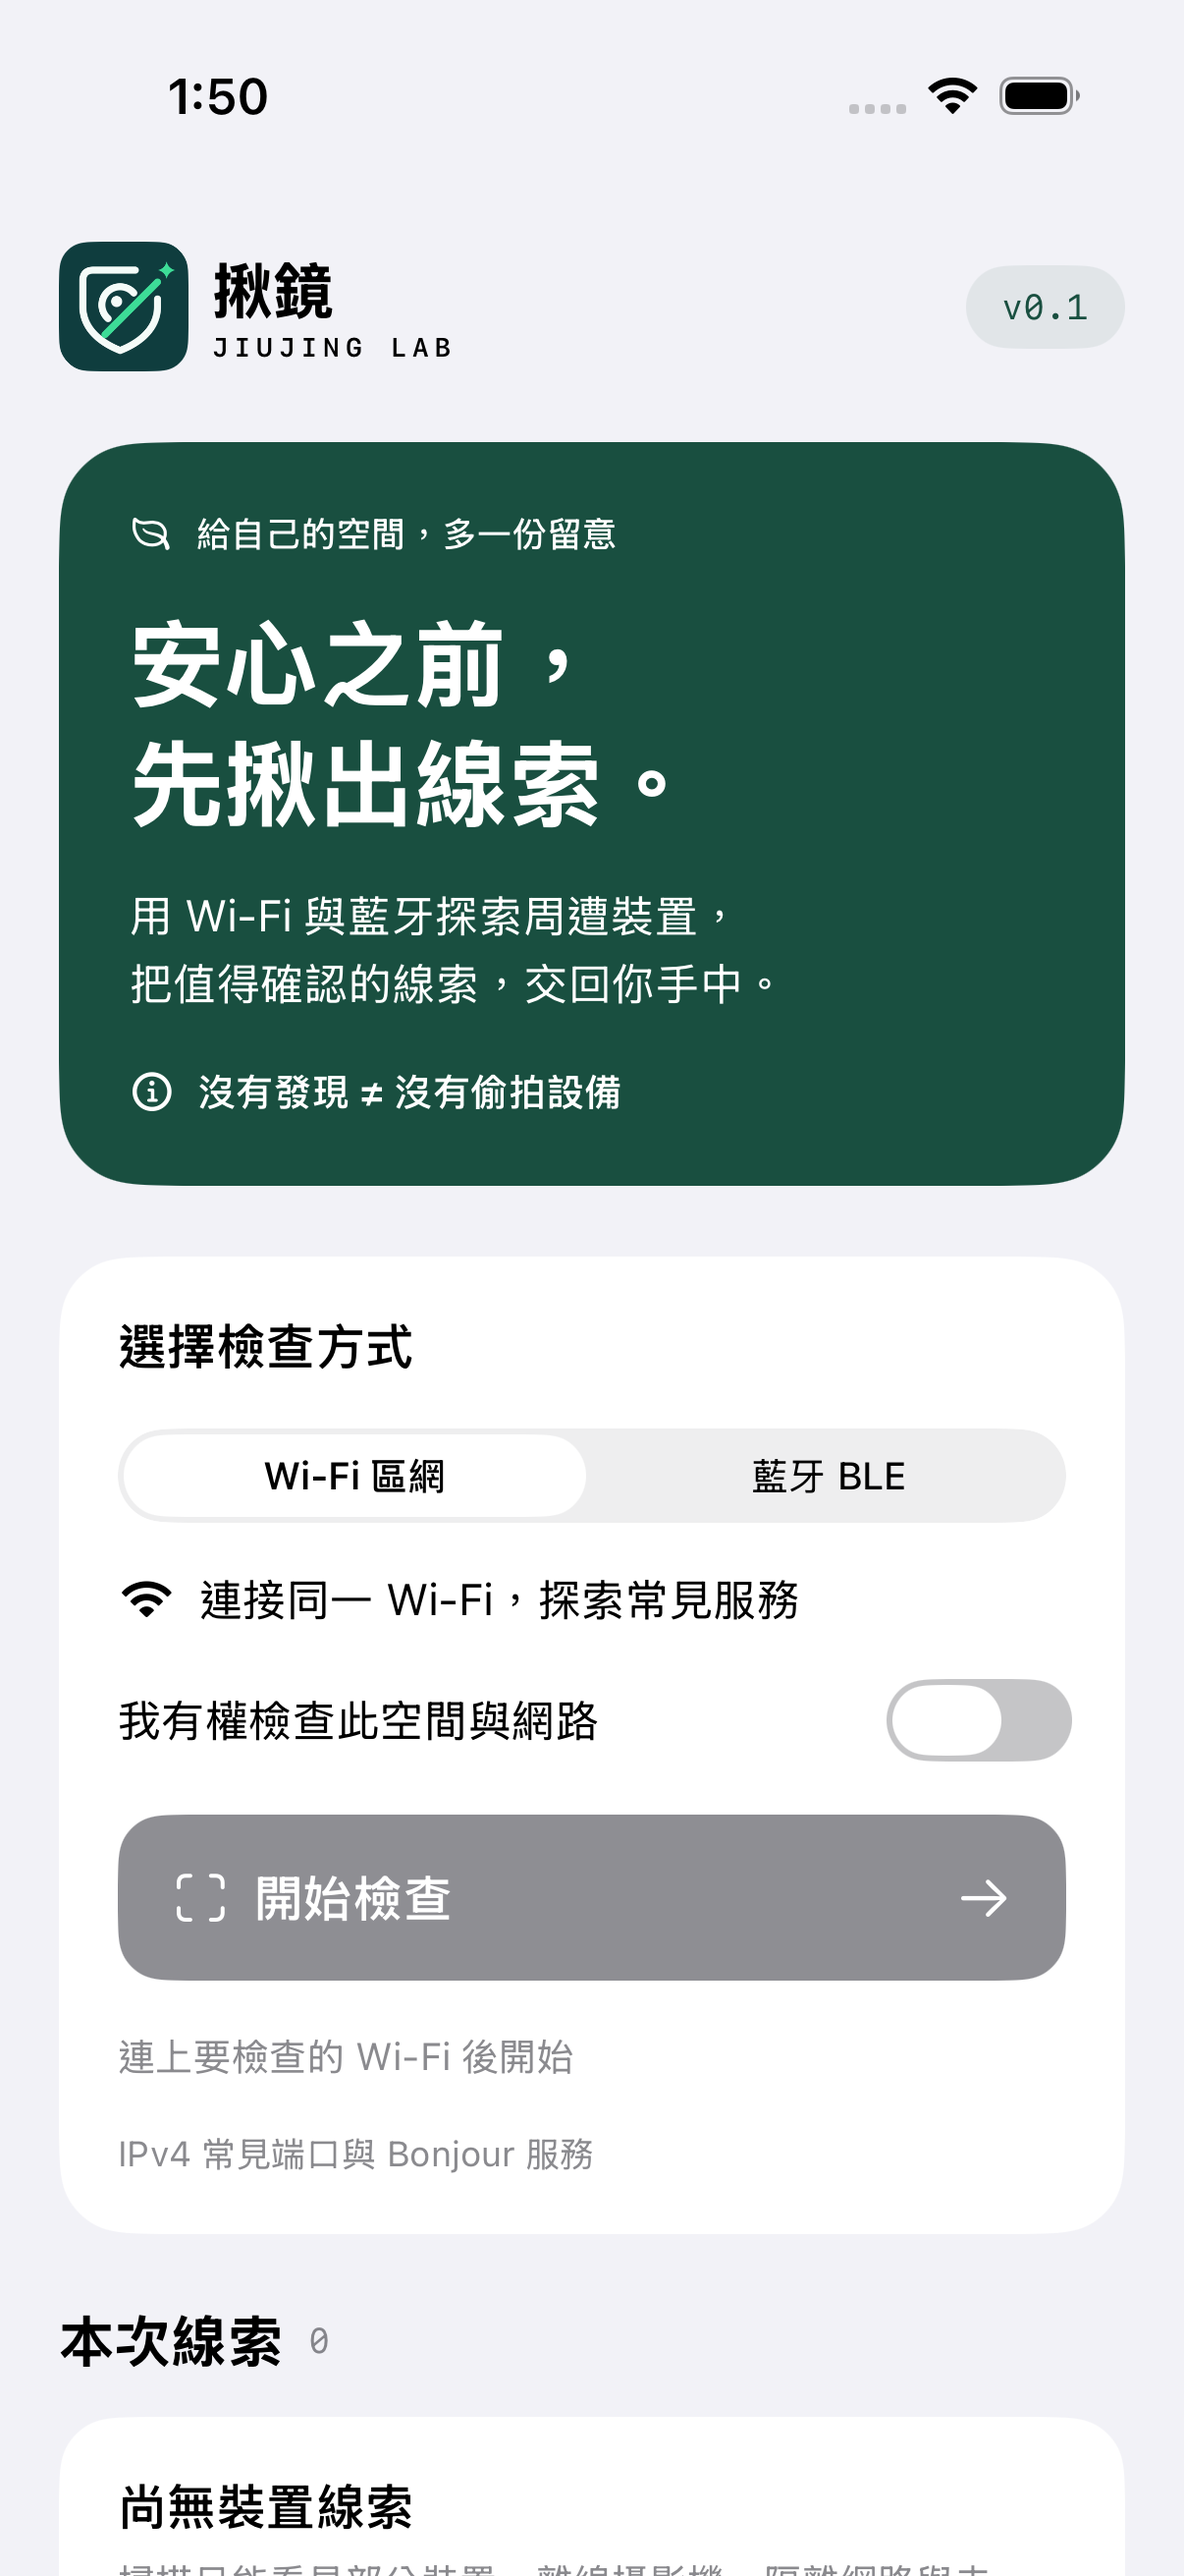
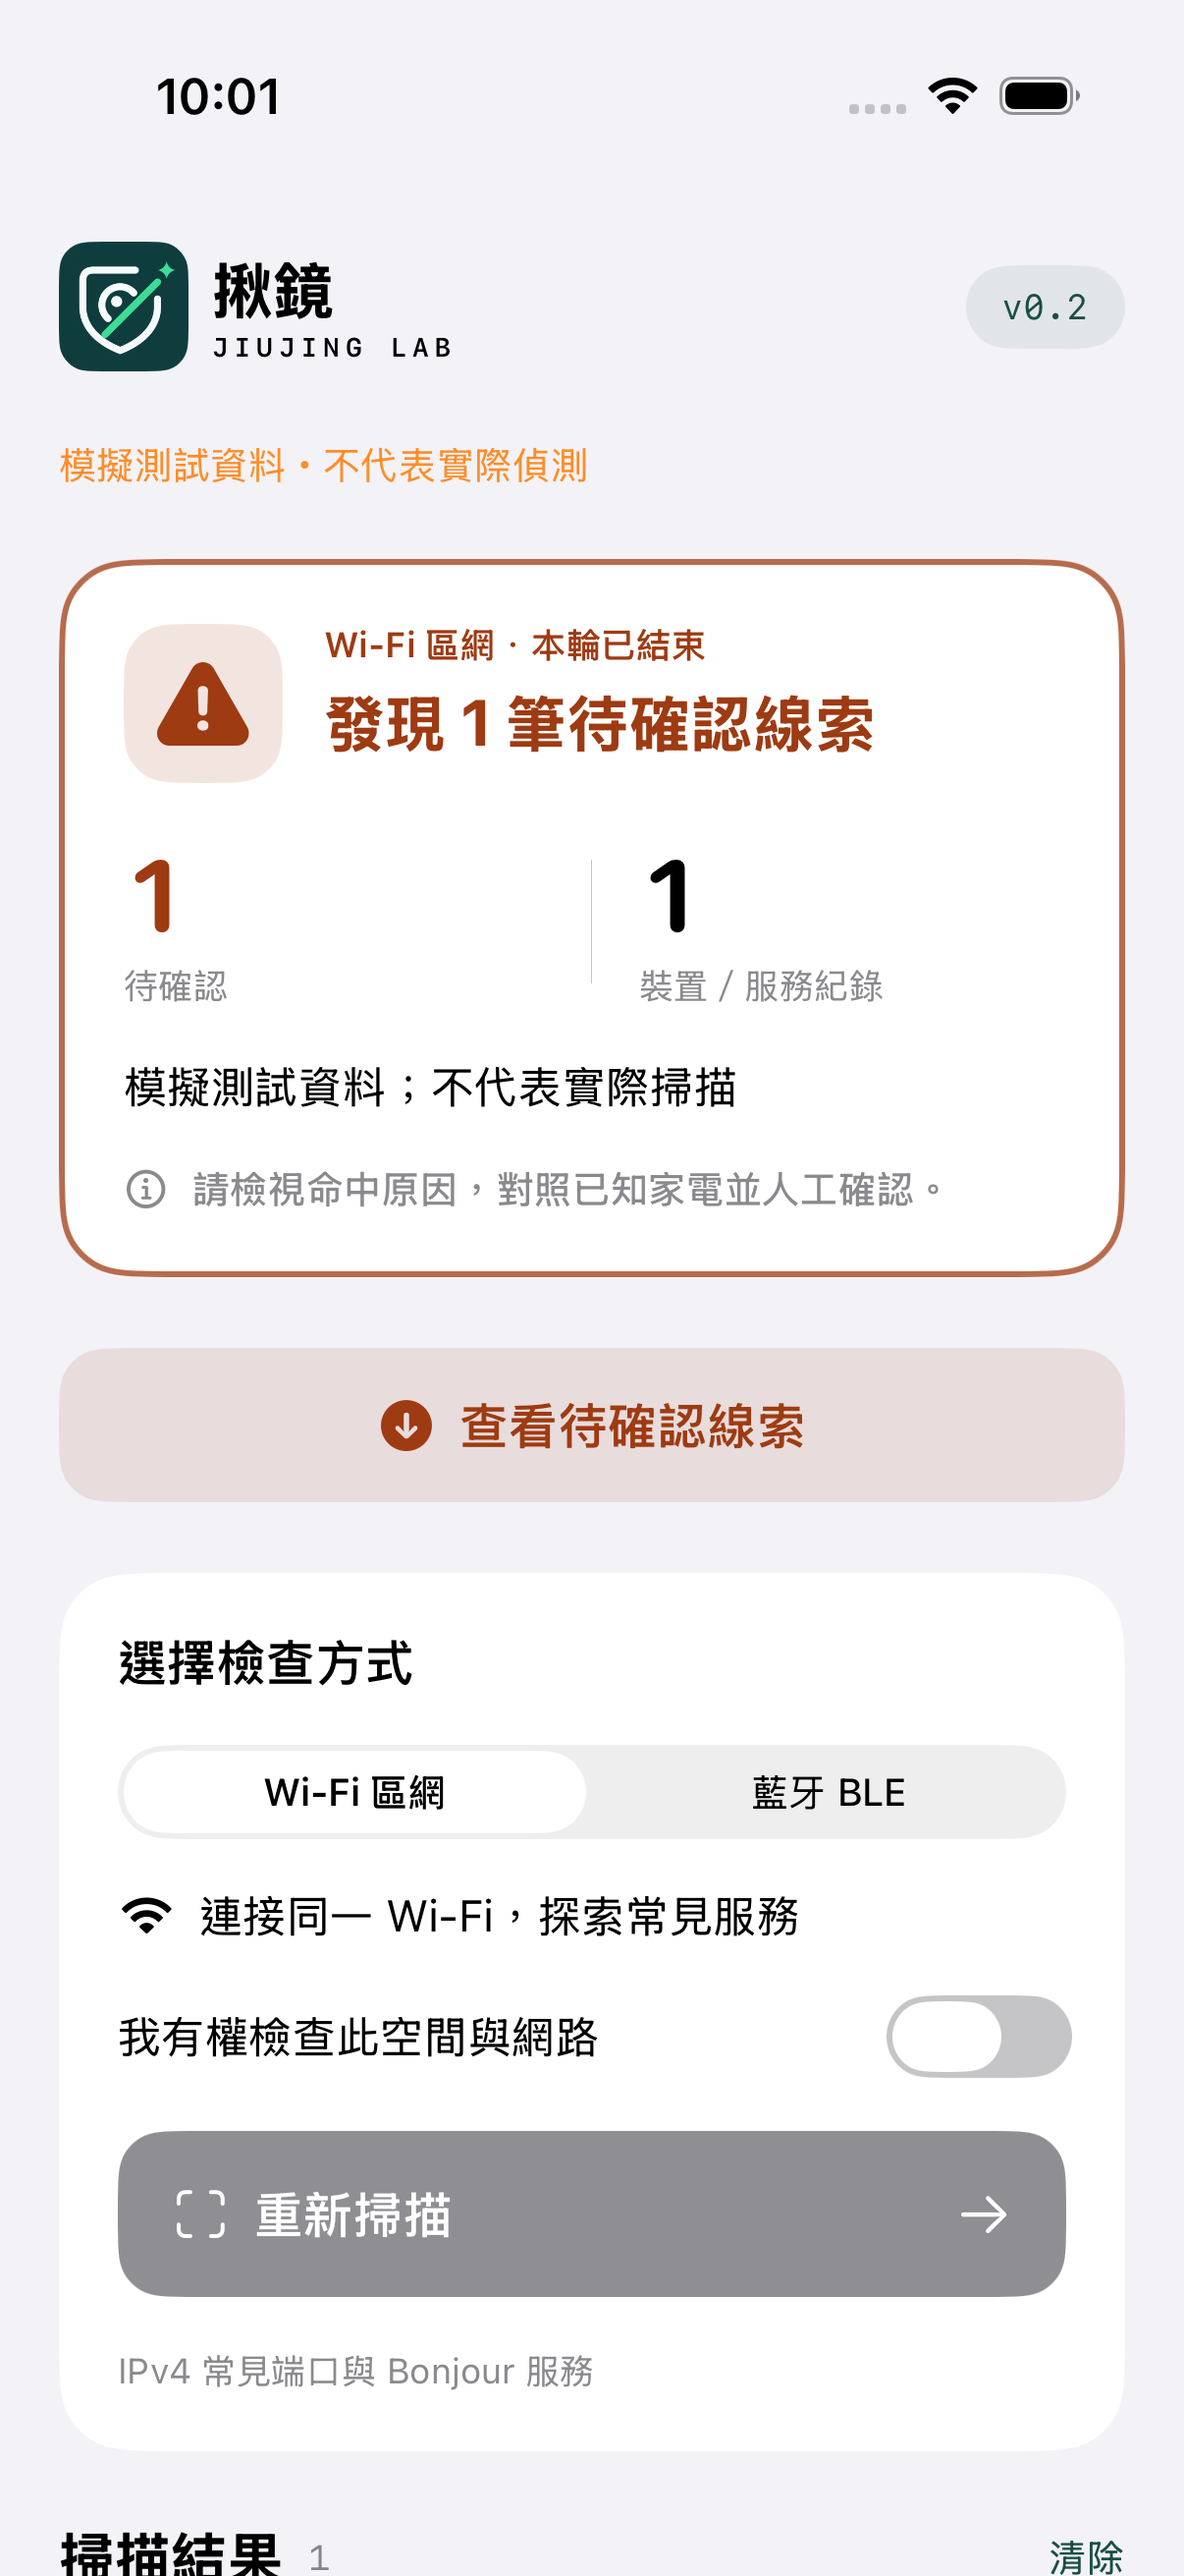
docs(release): document v0.2 camera assistance and scan results

diff --git a/index.html b/index.html
@@ -17,14 +17,14 @@
 </header>
 <main id="main">
 <section class="hero wrap" aria-labelledby="hero-title">
-<div class="hero-copy"><p class="eyebrow"><span class="status-dot" aria-hidden="true"></span>免費・開源・iOS 16+</p><h1 id="hero-title">安心之前，<br>先揪出<span class="marked">線索<svg viewBox="0 0 260 18" aria-hidden="true"><path d="M4 12Q125 0 254 10"/></svg></span>。</h1><p class="hero-lead">陌生的房間，熟悉的不安。<br>用 Wi-Fi 與藍牙探索周遭裝置，<br>把值得確認的線索，交回你手中。</p><div class="actions"><a class="button primary" href="#try">了解 v0.1 測試 <span aria-hidden="true">↗</span></a><a class="text-link" href="https://github.com/JiuJingLab/ios">查看原始碼 <span aria-hidden="true">→</span></a></div><p class="hero-note">沒有發現，不代表沒有偷拍設備。</p></div>
-<div class="hero-visual"><div class="orbit orbit-one" aria-hidden="true"></div><div class="orbit orbit-two" aria-hidden="true"></div><span class="cross cross-one" aria-hidden="true">+</span><span class="cross cross-two" aria-hidden="true">+</span><figure class="phone"><img src="assets/app-home.png" width="1206" height="2622" alt="揪鏡 v0.1 首頁，包含 Wi-Fi 區網與藍牙 BLE 模式、授權確認及開始檢查按鈕"><figcaption>v0.1 實際介面 · 模擬器截圖</figcaption></figure><div class="local-note"><span aria-hidden="true">↳</span> 掃描資料<br><strong>留在你的手機。</strong></div></div>
+<div class="hero-copy"><p class="eyebrow"><span class="status-dot" aria-hidden="true"></span>免費・開源・iOS 16+</p><h1 id="hero-title">安心之前，<br>先揪出<span class="marked">線索<svg viewBox="0 0 260 18" aria-hidden="true"><path d="M4 12Q125 0 254 10"/></svg></span>。</h1><p class="hero-lead">陌生的房間，熟悉的不安。<br>用 Wi-Fi 與藍牙探索周遭裝置，<br>把值得確認的線索，交回你手中。</p><div class="actions"><a class="button primary" href="#try">了解 v0.2 測試 <span aria-hidden="true">↗</span></a><a class="text-link" href="https://github.com/JiuJingLab/ios">查看原始碼 <span aria-hidden="true">→</span></a></div><p class="hero-note">沒有發現，不代表沒有偷拍設備。</p></div>
+<div class="hero-visual"><div class="orbit orbit-one" aria-hidden="true"></div><div class="orbit orbit-two" aria-hidden="true"></div><span class="cross cross-one" aria-hidden="true">+</span><span class="cross cross-two" aria-hidden="true">+</span><figure class="phone"><img src="assets/app-home.png" width="1206" height="2622" alt="揪鏡 v0.2 掃描結果狀態卡，顯示一筆待確認線索；此畫面為明確標示的模擬測試資料"><figcaption>v0.2 介面 · 模擬測試資料</figcaption></figure><div class="local-note"><span aria-hidden="true">↳</span> 掃描資料<br><strong>留在你的手機。</strong></div></div>
 </section>
 <div class="principles"><div class="wrap"><span>無帳號，直接開始</span><span>無廣告與分析 SDK</span><span>掃描結果不上傳</span><span>MIT 開源授權</span></div></div>
 <section class="section wrap intro" id="how" aria-labelledby="how-title"><div><p class="eyebrow">01 / 把檢查變得簡單</p><h2 id="how-title">多一個工具，<br>多一份留意。</h2></div><div><p class="large-copy">保護隱私，不該以付費或交出更多資料為代價。揪鏡讓你從周遭的數位線索開始，搭配實體檢查，逐步了解自己的空間。</p><ol class="steps"><li><span>01</span><div><h3>確認你有權檢查</h3><p>只在自己有權使用的空間與網路操作，選擇 Wi-Fi 或 BLE 模式。</p></div></li><li><span>02</span><div><h3>讓線索浮現</h3><p>查看裝置提供的服務或藍牙廣播。需要留意的紀錄會顯示具體原因。</p></div></li><li><span>03</span><div><h3>人工確認，再做判斷</h3><p>對照已知家電與設備用途，有疑慮時向管理者確認，先保護自己的安全。</p></div></li></ol></div></section>
-<section class="section wrap methods" aria-labelledby="methods-title"><div class="section-heading"><p class="eyebrow">02 / 兩種方式，觀察線索</p><h2 id="methods-title">把原因攤開，<br>讓你自己確認。</h2></div><div class="method"><span class="method-icon" aria-hidden="true">⌁</span><div><p class="eyebrow">WI-FI</p><h3>同一個網路，看見哪些服務？</h3><p>探索同 Wi-Fi 的常見端口與 Bonjour 服務，查看可能與影像串流有關的線索。一般網頁服務也會出現，並不等於攝影機。</p></div><span class="method-tag">不讀取影像</span></div><div class="method"><span class="method-icon ble" aria-hidden="true">ᛒ</span><div><p class="eyebrow">BLUETOOTH LE</p><h3>附近的廣播，有什麼值得留意？</h3><p>掃描 20 秒 BLE 廣播，以名稱規則提示待確認的裝置。名稱可以更改；訊號強弱也不代表裝置與你的距離。</p></div><span class="method-tag">不配對、不連線</span></div></section>
-<section class="privacy-band" aria-labelledby="privacy-title"><div class="wrap privacy-grid"><div><p class="eyebrow">03 / 隱私，從設計開始</p><h2 id="privacy-title">保護你的資料，<br>不必先收集它。</h2></div><div><p>v0.1 的掃描在手機端完成。結果只暫存在 App 記憶體，你可以隨時清除；我們不建立掃描紀錄，也不把資料送到雲端。</p><p>不要求相機、麥克風或位置權限。進入背景就停止掃描。</p><a href="https://jiujinglab.github.io/docs/privacy/">閱讀完整隱私政策 <span aria-hidden="true">↗</span></a></div></div></section>
-<section class="section wrap limits" id="limits" aria-labelledby="limits-title"><p class="eyebrow">04 / 把限制，也說清楚</p><h2 id="limits-title">沒有發現，<br><span>不代表沒有。</span></h2><p class="large-copy">揪鏡提供待確認的線索，不能證明有偷拍，也不能證明空間安全。</p><div class="limit-grid"><div><h3>離線設備可能看不見</h3><p>只錄到記憶卡、未連網或未廣播的攝影機，可能完全不會出現。</p></div><div><h3>網路並不是全貌</h3><p>隔離網路、防火牆與逾時會造成遺漏。v0.1 區網掃描限 IPv4，大型網段只檢查部分範圍。</p></div><div><h3>線索需要人工確認</h3><p>合法家電也可能命中規則。不要自行拆卸設備；感到不安全時先離開並尋求協助。</p></div></div><div class="faq"><details><summary>揪鏡能判斷裝置廠牌或精確距離嗎？</summary><p>不能。v0.1 不取得周邊裝置 MAC 位址，也不猜測廠商；BLE 訊號會受牆面、遮蔽物與硬體影響，不代表距離。</p></details><details><summary>目前有相機、紅外線或 AI 辨識嗎？</summary><p>沒有。v0.1 僅提供 Wi-Fi 區網與 BLE 廣播探索。其他偵測方式仍是研究方向，尚未提供。</p></details><details><summary>偵測到陌生裝置後，應該怎麼做？</summary><p>先對照場地內已知家電，向管理者確認用途。若仍有疑慮，先離開風險區域，避免拆卸或破壞設備，必要時在台灣撥打 110 求助。</p></details></div></section>
-<section class="try-section" id="try" aria-labelledby="try-title"><div class="wrap try-grid"><div><p class="eyebrow">JIUJING v0.1</p><h2 id="try-title">從透明的起點，<br>一起往前。</h2><p id="release-status">v0.1 已開放 TestFlight 內部測試，公開測試連結尚未開放。</p><p class="small">目前可查看原始碼與使用說明。實機 BLE／區網偵測仍需持續驗證；模擬器測試不代表硬體偵測效果。</p></div><div class="try-actions"><a class="button primary" href="https://github.com/JiuJingLab/ios">前往開源專案 <span aria-hidden="true">↗</span></a><a class="button secondary" href="https://jiujinglab.github.io/docs/support/">查看使用說明 <span aria-hidden="true">→</span></a><p>不把未知說成安全。<br>不把規劃說成已完成。</p></div></div></section>
+<section class="section wrap methods" aria-labelledby="methods-title"><div class="section-heading"><p class="eyebrow">02 / 數位線索，搭配人工觀察</p><h2 id="methods-title">把原因攤開，<br>讓你自己確認。</h2></div><div class="method"><span class="method-icon" aria-hidden="true">⌁</span><div><p class="eyebrow">WI-FI</p><h3>同一個網路，看見哪些服務？</h3><p>探索同 Wi-Fi 的常見端口與 Bonjour 服務，查看可能與影像串流有關的線索。一般網頁服務也會出現，並不等於攝影機。</p></div><span class="method-tag">不讀取影像</span></div><div class="method"><span class="method-icon ble" aria-hidden="true">ᛒ</span><div><p class="eyebrow">BLUETOOTH LE</p><h3>附近的廣播，有什麼值得留意？</h3><p>掃描 20 秒 BLE 廣播，以名稱規則提示待確認的裝置。名稱可以更改；訊號強弱也不代表裝置與你的距離。</p></div><span class="method-tag">不配對、不連線</span></div><div class="method"><span class="method-icon" aria-hidden="true">◎</span><div><p class="eyebrow">CAMERA ASSIST</p><h3>再靠近一點，自己看清楚。</h3><p>本機即時預覽、放大、補光與前後鏡頭切換，搭配紅外線檢查指引。反光不是偷拍證據；沒有自動 AI 判定。</p></div><span class="method-tag">不儲存、不上傳</span></div></section>
+<section class="privacy-band" aria-labelledby="privacy-title"><div class="wrap privacy-grid"><div><p class="eyebrow">03 / 隱私，從設計開始</p><h2 id="privacy-title">保護你的資料，<br>不必先收集它。</h2></div><div><p>v0.2 的掃描在手機端完成。結果只暫存在 App 記憶體，你可以隨時清除；我們不建立掃描紀錄，也不把資料送到雲端。</p><p>相機只在你手動啟動輔助檢查後開啟，畫面不儲存、不上傳。不要求麥克風或位置權限。進入背景就停止掃描與相機。</p><a href="https://jiujinglab.github.io/docs/privacy/">閱讀完整隱私政策 <span aria-hidden="true">↗</span></a></div></div></section>
+<section class="section wrap limits" id="limits" aria-labelledby="limits-title"><p class="eyebrow">04 / 把限制，也說清楚</p><h2 id="limits-title">沒有發現，<br><span>不代表沒有。</span></h2><p class="large-copy">揪鏡提供待確認的線索，不能證明有偷拍，也不能證明空間安全。</p><div class="limit-grid"><div><h3>離線設備可能看不見</h3><p>只錄到記憶卡、未連網或未廣播的攝影機，可能完全不會出現。</p></div><div><h3>網路並不是全貌</h3><p>隔離網路、防火牆與逾時會造成遺漏。v0.2 區網掃描限 IPv4，大型網段只檢查部分範圍。</p></div><div><h3>線索需要人工確認</h3><p>合法家電也可能命中規則。不要自行拆卸設備；感到不安全時先離開並尋求協助。</p></div></div><div class="faq"><details><summary>揪鏡能判斷裝置廠牌或精確距離嗎？</summary><p>不能。v0.2 不取得周邊裝置 MAC 位址，也不猜測廠商；BLE 訊號會受牆面、遮蔽物與硬體影響，不代表距離。</p></details><details><summary>目前有相機、紅外線或 AI 辨識嗎？</summary><p>v0.2 提供相機即時預覽、放大、補光及紅外線檢查指引，協助人工觀察；沒有自動 AI 辨識或專用紅外線感測，不保證發現攝影機。</p></details><details><summary>偵測到陌生裝置後，應該怎麼做？</summary><p>先對照場地內已知家電，向管理者確認用途。若仍有疑慮，先離開風險區域，避免拆卸或破壞設備，必要時在台灣撥打 110 求助。</p></details></div></section>
+<section class="try-section" id="try" aria-labelledby="try-title"><div class="wrap try-grid"><div><p class="eyebrow">JIUJING v0.2</p><h2 id="try-title">從透明的起點，<br>一起往前。</h2><p id="release-status">v0.2 正在進行發佈驗證；v0.1 內部測試已開放，公開測試連結尚未開放。</p><p class="small">目前可查看原始碼與使用說明。實機 BLE／區網偵測仍需持續驗證；模擬器測試不代表硬體偵測效果。</p></div><div class="try-actions"><a class="button primary" href="https://github.com/JiuJingLab/ios">前往開源專案 <span aria-hidden="true">↗</span></a><a class="button secondary" href="https://jiujinglab.github.io/docs/support/">查看使用說明 <span aria-hidden="true">→</span></a><p>不把未知說成安全。<br>不把規劃說成已完成。</p></div></div></section>
 </main><footer class="wrap footer"><a class="brand" href="./"><img src="assets/app-icon.png" width="32" height="32" alt=""><span>揪鏡 <small>JIUJING LAB</small></span></a><p>讓隱私自我檢查，成為人人可取得的工具。</p><div><a href="https://jiujinglab.github.io/docs/privacy/">隱私政策</a><a href="https://jiujinglab.github.io/docs/support/">使用支援</a><a href="https://github.com/JiuJingLab/website">網站原始碼 ↗</a></div><small>© 2026 JiuJing Lab · Made in Taiwan</small></footer>
 </body></html>
